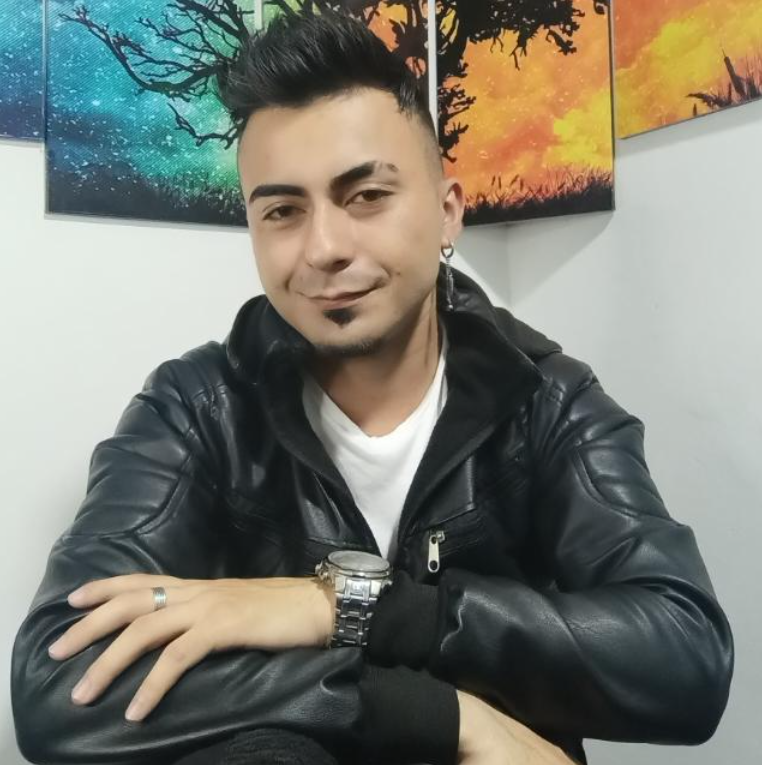
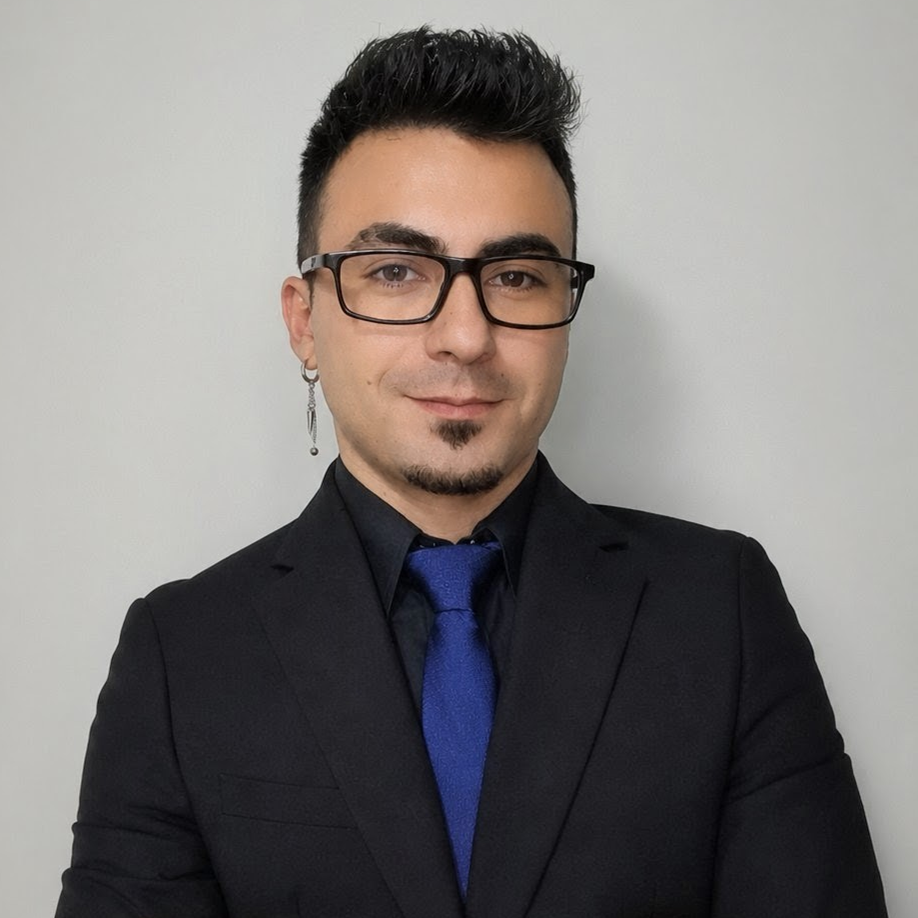
cambio de fotos

diff --git a/css/styles.css b/css/styles.css
@@ -542,6 +542,18 @@ img {
     font-weight: 700;
 }
 
+.badge-descuento {
+    position: absolute;
+    bottom: 12px;
+    left: 12px;
+    background: var(--naranja);
+    color: var(--blanco);
+    padding: 4px 12px;
+    border-radius: 20px;
+    font-size: .8rem;
+    font-weight: 700;
+}
+
 /* Overlay semitransparente cuando está agotado */
 .agotado-overlay::after {
     content: '';
@@ -1253,7 +1265,8 @@ img {
     /* Menú responsive */
     .nav-links {
         position: fixed;
-        top: 70px;
+        top: 0;
+        padding-top: 80px;
         left: 0;
         width: 100%;
         background: var(--blanco);

diff --git a/js/productos.js b/js/productos.js
@@ -96,6 +96,13 @@ const Productos = (() => {
             if (producto['categoría'])   producto.cat  = producto['categoría'];
             if (producto['descripción']) producto.desc = producto['descripción'];
             if (producto.nombre) resultado.push(producto);
+            if (producto.descuento && parseInt(producto.descuento) > 0) {
+                producto.enPromocion = true;
+                producto.precioOriginal = producto.precio;
+                const descuento = parseInt(producto.descuento);
+                const precioNum = parseInt(String(producto.precio).replace(/[^0-9]/g, ''));
+                producto.precio = Math.round(precioNum * (1 - descuento / 100)).toString();
+            }
         }
 
         return resultado;
@@ -171,7 +178,9 @@ const Productos = (() => {
         /* Filtrar por categoría */
         const lista = categoriaActiva === 'todas'
             ? productos
-            : productos.filter(p => p.cat === categoriaActiva);
+            : categoriaActiva === 'Promociones'
+                ? productos.filter(p => p.enPromocion)
+                : productos.filter(p => p.cat === categoriaActiva);
 
         if (lista.length === 0) {
             grid.innerHTML = `
@@ -197,6 +206,7 @@ const Productos = (() => {
                 <div class="product-image ${agotado ? 'agotado-overlay' : ''}">
                     ${imagenHTML}
                     <span class="product-category">${producto.cat}</span>
+                    ${producto.enPromocion ? `<span class="badge-descuento">-${producto.descuento}%</span>` : ''}
                     ${agotado ? '<span class="badge-agotado">Agotado</span>' : ''}
                 </div>
 

diff --git a/js/config.js b/js/config.js
@@ -51,11 +51,11 @@ const CONFIG = {
             foto:      'recursos/brandon.png'
         },
         {
-            nombre:    'Cristian Camacho',
+            nombre:    'David Camacho',
             rol:       'Co-fundador · Finanzas & Operaciones',
             bio:       'Experto en gestión financiera y administrativa. Garantiza la salud económica del negocio y la eficiencia en cada proceso operativo.',
             whatsapp:  '3168712103',
-            foto:      'recursos/cristian.png'
+            foto:      'recursos/david.png'
         },
         {
             nombre:    'Jhon Camacho',
@@ -81,6 +81,7 @@ const CONFIG = {
        ────────────────────────────────────────────────────── */
     categorias: [
         { id: 'todas',      nombre: 'Todas',       icono: '🛍️' },
+        { id: 'Promociones',  nombre: 'Promociones',  icono: '🔥' },
         { id: 'Teclados',      nombre: 'Teclados',        icono: '⌨️' },
         { id: 'Relojes',  nombre: 'Relojes',    icono: '⌚' },
         { id: 'Intercomunicador',nombre: 'Intercomunicador',  icono: '🖥️' },

diff --git a/apps-script.js b/apps-script.js
@@ -12,7 +12,7 @@
  */
 
 // ========== CONFIGURACIÓN (MODIFICA ESTOS VALORES) ==========
-const SPREADSHEET_ID = 'TU_ID_DE_SPREADSHEET_AQUI'; // El ID de tu Google Sheet
+const SPREADSHEET_ID = '1M9zGHvMGoio8D3y8Y9fl_nKj6qoFc1quKlCMxh_Yzg8'; // El ID de tu Google Sheet
 const HOJA_RESERVAS = 'Reservas';
 const EMAIL_DESTINO = '[email redacted]'; // Correo que recibe notificaciones
 